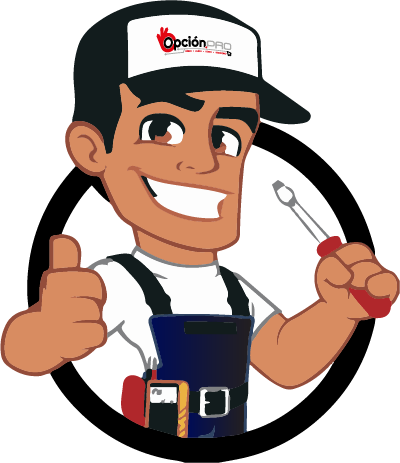
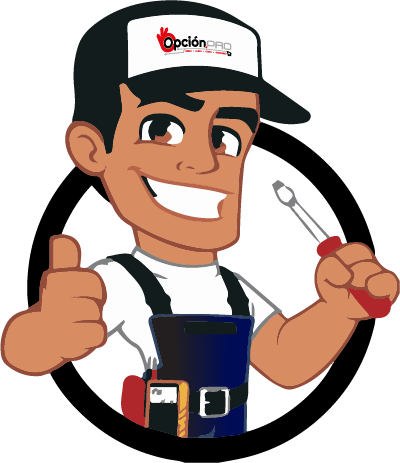
cambio de iframe a FB SDK
cambio de iframe a FB SDK
correccion en gradiente de caricatura

diff --git a/index.html b/index.html
@@ -31,6 +31,13 @@
         <div class="loader"></div>
     </div>
 
+    <!--FB javascript SDK-->
+
+    <div id="fb-root"></div>
+    <script async defer crossorigin="anonymous"
+        src="https://connect.facebook.net/es_LA/sdk.js#xfbml=1&version=v8.0&appId=880023848690239"
+        nonce="vox6AFOw"></script>
+
     <!-- Back totop button -->
 
     <div class="top-scrollerx js-top-scrollerx svg-icons">
@@ -254,10 +261,19 @@
             </div>
             <div class="row justify-content-center">
                 <div class="col-md-6 d-flex justify-content-center iframe-fb-container">
+
+
+                    <div class="fb-page" data-href="https://www.facebook.com/opcion.pro" data-tabs="messages"
+                        data-width="340" data-height="500" data-small-header="true" data-adapt-container-width="false"
+                        data-hide-cover="false" data-show-facepile="false">
+                        <blockquote cite="https://www.facebook.com/opcion.pro" class="fb-xfbml-parse-ignore"><a
+                                href="https://www.facebook.com/opcion.pro">Opcion PRO</a></blockquote>
+                    </div>
+                    <!-- antiguo iframe de FB-----
                     <iframe
                         src="https://www.facebook.com/plugins/page.php?href=https%3A%2F%2Fwww.facebook.com%2Fopcion.pro%2F&tabs=messages&width=340&height=500&small_header=true&adapt_container_width=true&hide_cover=false&show_facepile=false&appId=880023848690239"
                         width="340" height="500" style="border:none;overflow:hidden" scrolling="no" frameborder="0"
-                        allowTransparency="true" allow="encrypted-media"></iframe><br>
+                        allowTransparency="true" allow="encrypted-media"></iframe>--><br>
                 </div>
                 <div class="col-md-4 justify-content-center">
                     <br><br><img src="/img/calidad.png" class="img-fluid" alt="calidad">
